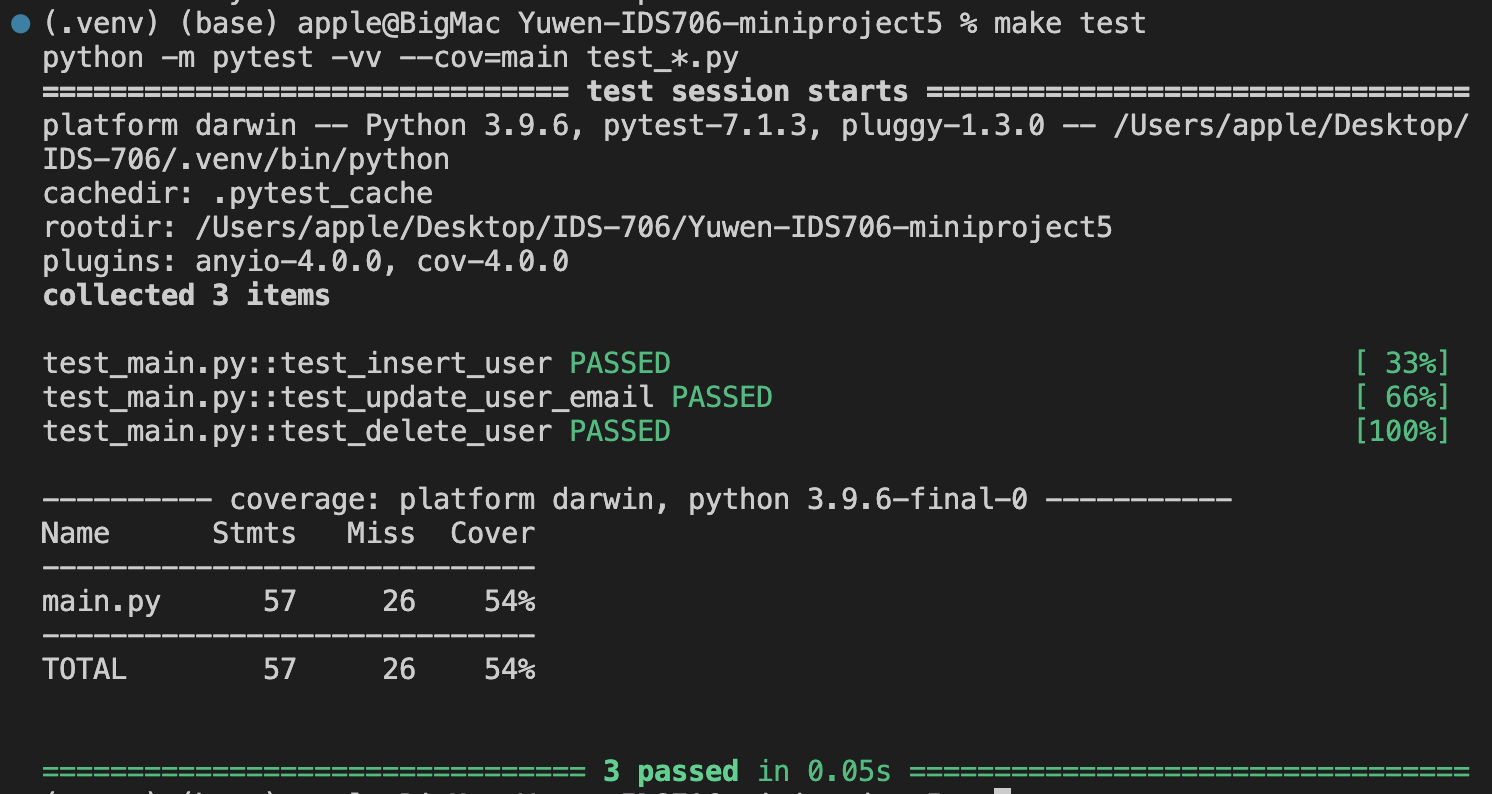
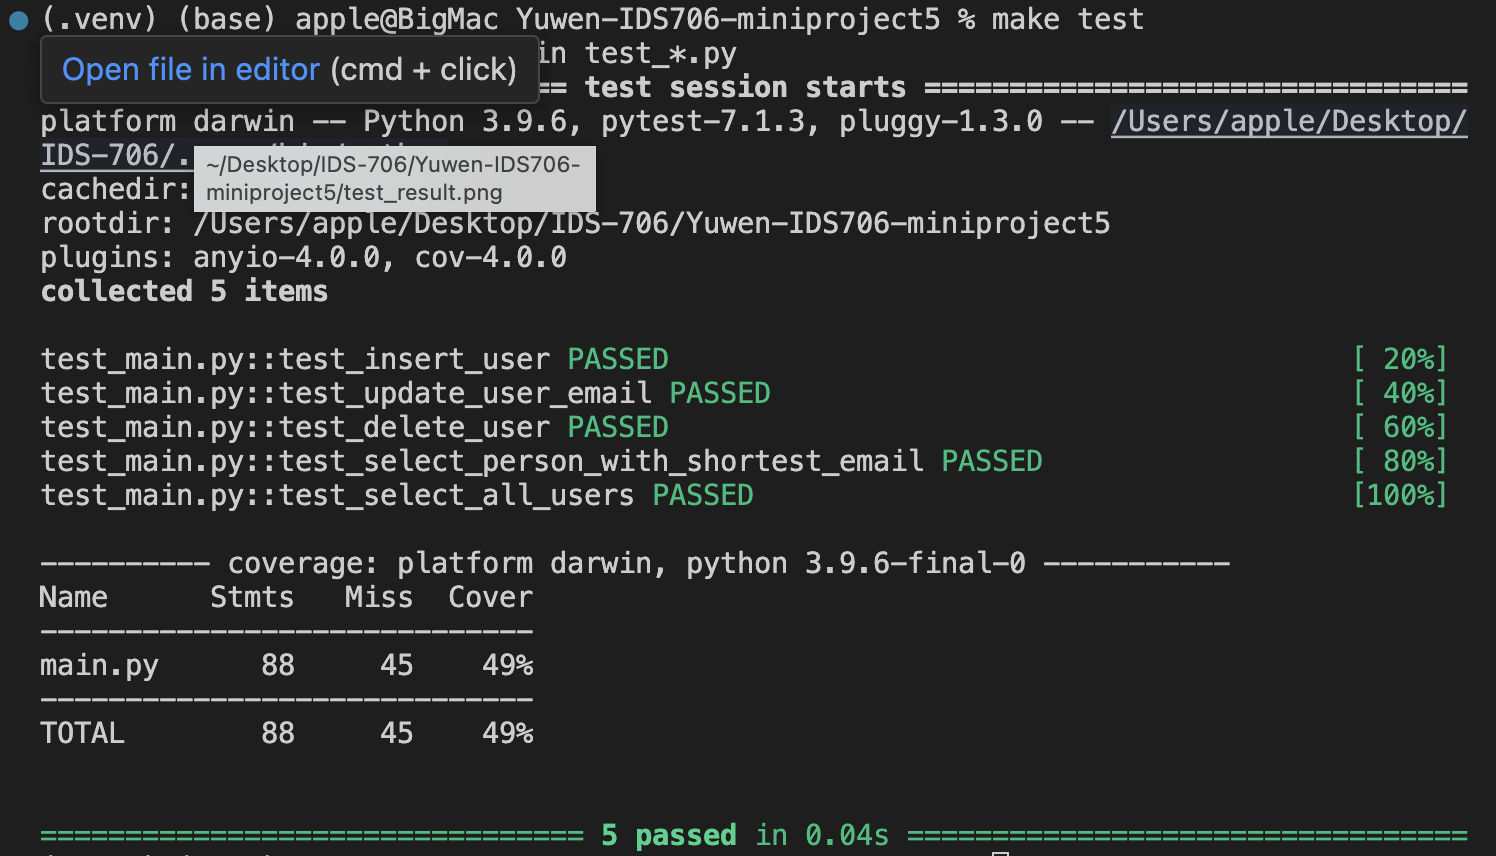
update query function

Changed region(s): [[0.0, 0.0, 0.9866, 0.8766], [0.0308, 0.937, 0.9866, 1.0], [0.8941, 0.3929, 0.9866, 0.6045]]

diff --git a/test_main.py b/test_main.py
@@ -1,6 +1,6 @@
 from main import create_connection, create_table, insert_user
 from main import get_user_by_username, update_user_email, delete_user
-
+from main import select_all_users, select_person_with_shortest_email
 def test_insert_user():
     database_file = "test_database.db"
     connection = create_connection(database_file)
@@ -56,7 +56,7 @@ def test_select_person_with_shortest_email():
 
 
 def test_select_all_users():
-    database_file = "test_database.db"
+    database_file = "new_full_database.db"
     connection = create_connection(database_file)
     create_table(connection)
 
@@ -67,7 +67,6 @@ def test_select_all_users():
 
     users = select_all_users(connection)
     connection.close()
-
     assert len(users) == 3  # Assert the number of retrieved users
 
 

diff --git a/main.py b/main.py
@@ -107,6 +107,9 @@ if __name__ == "__main__":
         delete_user(connection, "JohnDoe")
 
         # user with shortest email
+        insert_user(connection, "Apple", "a@example.com")
+        insert_user(connection, "Banana", "Banana@example.com")
+        insert_user(connection, "Orange", "ora@example.com")
         person = select_person_with_shortest_email(connection)
 
         if person:
@@ -119,7 +122,7 @@ if __name__ == "__main__":
 
         # select all users
         users = select_all_users(connection)
-        
+
         for user in users:
             print("User ID:", user[0])
             print("Username:", user[1])
